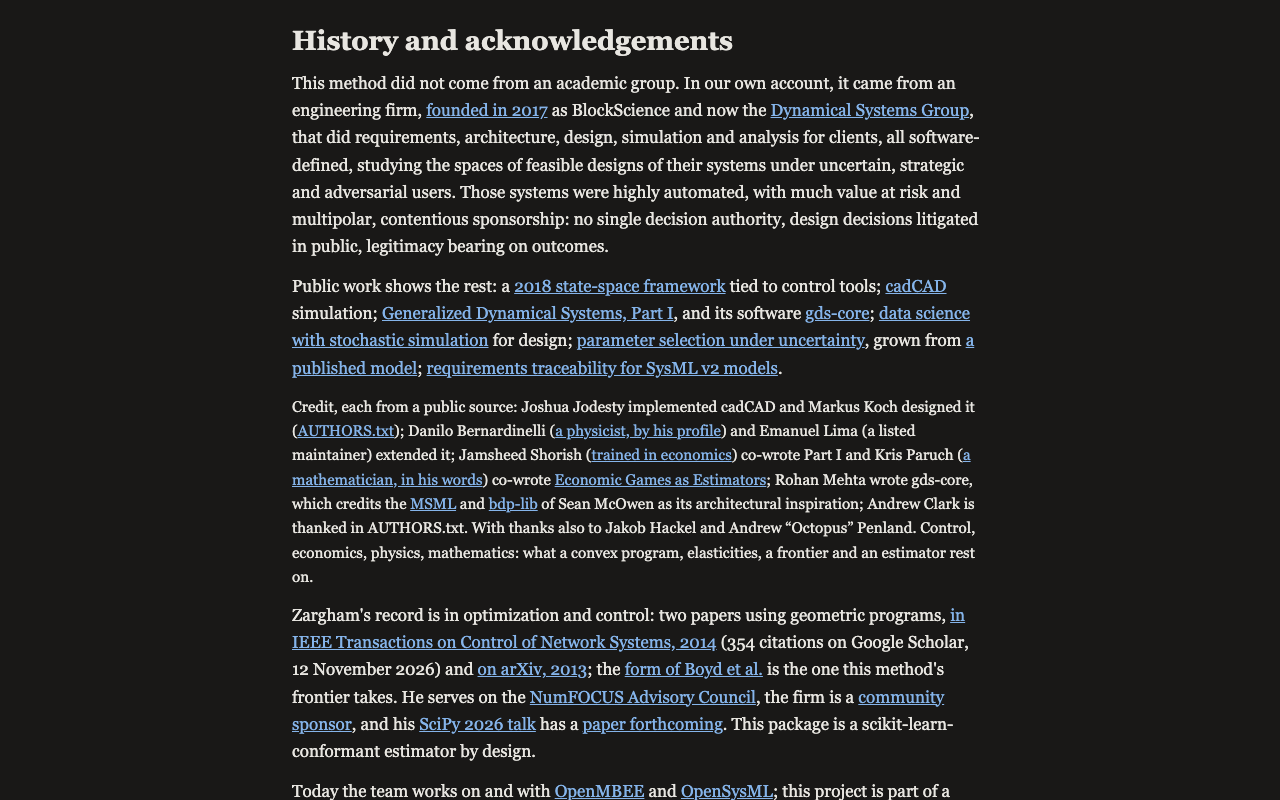
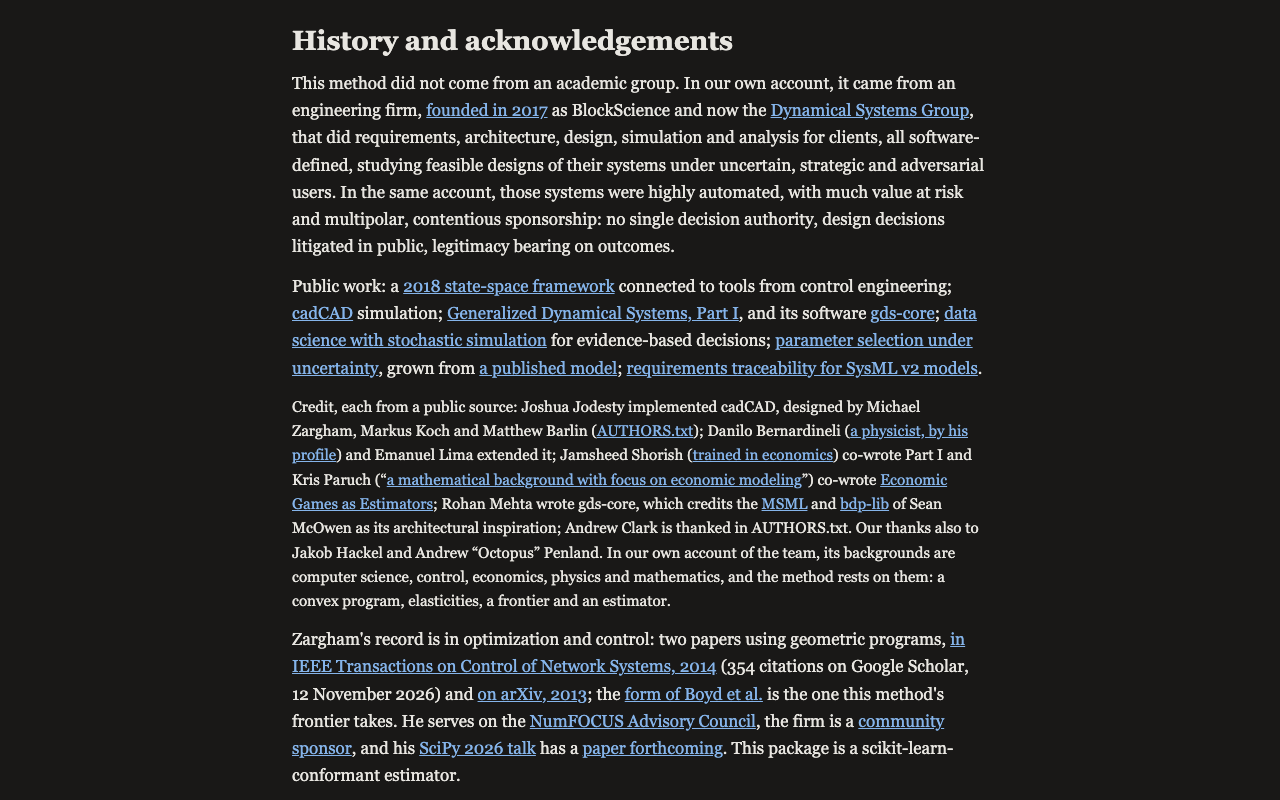
WP37 history page: the supervisor's decisions on the W3 flags; open items for the supervisor; claims rows and screenshots updated

Changed region(s): [[0.2188, 0.5, 0.7812, 1.0], [0.2188, 0.1875, 0.7812, 0.4688]]

diff --git a/site/history.html b/site/history.html
@@ -82,35 +82,37 @@
     engineering firm, <a href="https://michael.zargham.org">founded in 2017</a> as BlockScience and
     now the <a href="https://www.dynamicalsystemsgroup.com">Dynamical Systems Group</a>, that did
     requirements, architecture, design, simulation and analysis for clients, all software-defined,
-    studying the spaces of feasible designs of their systems under uncertain, strategic and
-    adversarial users. Those systems were highly automated, with much value at risk and multipolar,
-    contentious sponsorship: no single decision authority, design decisions litigated in public,
-    legitimacy bearing on outcomes.
+    studying feasible designs of their systems under uncertain, strategic and
+    adversarial users. In the same account, those systems were highly automated, with much value at
+    risk and multipolar, contentious sponsorship: no single decision authority, design decisions
+    litigated in public, legitimacy bearing on outcomes.
   </p>
   <p>
-    Public work shows the rest: a <a href="https://arxiv.org/abs/1807.00955">2018 state-space
-    framework</a> tied to control tools; <a href="https://github.com/cadCAD-org/cadCAD">cadCAD</a>
+    Public work: a <a href="https://arxiv.org/abs/1807.00955">2018 state-space
+    framework</a> connected to tools from control engineering; <a href="https://github.com/cadCAD-org/cadCAD">cadCAD</a>
     simulation; <a href="https://research.wu.ac.at/de/publications/generalized-dynamical-systems-part-i-foundations/">Generalized
     Dynamical Systems, Part I</a>, and its software <a href="https://github.com/DynamicalSystemsGroup/gds-core">gds-core</a>;
-    <a href="https://arxiv.org/abs/2001.03020">data science with stochastic simulation</a> for design;
+    <a href="https://arxiv.org/abs/2001.03020">data science with stochastic simulation</a> for
+    evidence-based decisions;
     <a href="https://hackmd.io/@danlessa/HklBYikEY">parameter selection under uncertainty</a>, grown from
     <a href="https://github.com/BlockScience/subspace">a published model</a>;
     <a href="https://github.com/DynamicalSystemsGroup/flexo-rtm">requirements traceability for SysML v2 models</a>.
   </p>
   <p class="credit">
-    Credit, each from a public source: Joshua Jodesty implemented cadCAD and Markus Koch
-    designed it (<a href="https://github.com/cadCAD-org/cadCAD/blob/master/AUTHORS.txt">AUTHORS.txt</a>);
-    Danilo Bernardinelli (<a href="https://github.com/danlessa">a physicist, by his profile</a>)
-    and Emanuel Lima (a listed maintainer) extended it; Jamsheed Shorish
+    Credit, each from a public source: Joshua Jodesty implemented cadCAD, designed by Michael Zargham,
+    Markus Koch and Matthew Barlin (<a href="https://github.com/cadCAD-org/cadCAD/blob/master/AUTHORS.txt">AUTHORS.txt</a>);
+    Danilo Bernardineli (<a href="https://github.com/danlessa">a physicist, by his profile</a>)
+    and Emanuel Lima extended it; Jamsheed Shorish
     (<a href="https://genealogy.repec.org/pages/psh169.html">trained in economics</a>) co-wrote Part I and Kris Paruch
-    (<a href="https://web.archive.org/web/2022/https://medium.com/crypto3conomics/token-engineering-from-an-economic-perspective-b6c464f20241">a
-    mathematician, in his words</a>) co-wrote <a href="https://doi.org/10.1007/978-3-030-53356-4_8">Economic
+    (&ldquo;<a href="https://web.archive.org/web/2022/https://medium.com/crypto3conomics/token-engineering-from-an-economic-perspective-b6c464f20241">a
+    mathematical background with focus on economic modeling</a>&rdquo;) co-wrote <a href="https://doi.org/10.1007/978-3-030-53356-4_8">Economic
     Games as Estimators</a>; Rohan Mehta wrote gds-core, which credits the
     <a href="https://github.com/DynamicalSystemsGroup/MSML">MSML</a> and
     <a href="https://github.com/DynamicalSystemsGroup/bdp-lib">bdp-lib</a> of Sean McOwen as its architectural
-    inspiration; Andrew Clark is thanked in AUTHORS.txt. With thanks also to Jakob Hackel and
-    Andrew &ldquo;Octopus&rdquo; Penland. Control, economics, physics, mathematics: what a convex
-    program, elasticities, a frontier and an estimator rest on.
+    inspiration; Andrew Clark is thanked in AUTHORS.txt. Our thanks also to Jakob Hackel and
+    Andrew &ldquo;Octopus&rdquo; Penland. In our own account of the team, its backgrounds are computer
+    science, control, economics, physics and mathematics, and the method rests on them: a convex
+    program, elasticities, a frontier and an estimator.
   </p>
   <p>
     Zargham's record is in optimization and control: two papers using geometric programs,
@@ -121,12 +123,13 @@
     frontier takes. He serves on the <a href="https://numfocus.org/community/people">NumFOCUS Advisory
     Council</a>, the firm is a <a href="https://numfocus.org/sponsors">community sponsor</a>, and his
     <a href="https://pretalx.com/scipy-2026/talk/TBDWJZ/">SciPy 2026 talk</a> has a
-    <a href="https://michael.zargham.org/publications.html">paper forthcoming</a>. This package is a scikit-learn-conformant estimator by design.
+    <a href="https://michael.zargham.org/publications.html">paper forthcoming</a>. This package is a scikit-learn-conformant estimator.
   </p>
   <p>
-    Today the team works on and with <a href="https://www.dynamicalsystemsgroup.com/partners">OpenMBEE</a>
-    and <a href="https://github.com/Open-MBEE/OpenSysML">OpenSysML</a>; this project is part of a synthesis
-    effort to make what we learned accessible.
+    Today the team works on and with <a href="https://www.dynamicalsystemsgroup.com/partners">OpenMBEE</a>,
+    and Zargham is a <a href="https://michael.zargham.org/research">maintainer working across</a>
+    <a href="https://github.com/Open-MBEE/OpenSysML">OpenSysML</a> and Flexo MMS; in our own account,
+    this project is part of a synthesis effort to make what we learned accessible.
   </p>
   <p class="close">With computers, fast but with confidence.</p>
 

diff --git a/tests/test_site.py b/tests/test_site.py
@@ -565,14 +565,16 @@ def test_history_page_uses_no_cryptocurrency_or_web3_vocabulary():
         r"\bnft\b",
     ):
         assert not re.search(banned, text), banned
-    assert "computer scien" not in text, "computer science is not backed for any named person"
+    # computer science is the supervisor's word for the team's backgrounds (WP37 decisions),
+    # offered on the page as the team's own account of the team
+    assert "In our own account of the team" in _history_text()
 
 
 def test_history_page_credits_the_eleven_named_people():
     text = _history_text()
     for name in (
         "Markus Koch",
-        "Danilo Bernardinelli",
+        "Danilo Bernardineli",
         "Rohan Mehta",
         "Joshua Jodesty",
         "Jamsheed Shorish",
@@ -584,6 +586,17 @@ def test_history_page_credits_the_eleven_named_people():
         "Sean McOwen",
     ):
         assert name in text, name
+
+
+def test_history_page_marks_the_team_account_and_credits_cadcad_as_authors_txt_does():
+    """WP37 W3 decisions: the team's own account is marked each time; cadCAD's designers are
+    credited as AUTHORS.txt states them; Paruch is quoted in his own words."""
+    text = _history_text()
+    assert text.count("our own account") + text.count("the same account") >= 3
+    assert "designed by Michael Zargham, Markus Koch and Matthew Barlin" in text
+    assert "a mathematical background with focus on economic modeling" in text
+    assert "Our thanks also to Jakob Hackel" in text
+    assert text.count("Barlin") == 1
 
 
 def test_paper_theme_is_pinned_to_a_commit():

diff --git a/work-packages/WP37-rounds/open-items.md b/work-packages/WP37-rounds/open-items.md
@@ -1,0 +1,36 @@
+# WP37 draft: open items for the supervisor
+
+The draft is site/history.html. Each item below is something the page does not settle by itself.
+
+## 1. Names
+
+- **Spelling.** The page follows the public sources: "Danilo Bernardineli" (cadCAD AUTHORS.txt, "Danilo L. Bernardineli"; GitHub name "Danilo Lessa Bernardineli"). Your list has "Bernardinelli". Which does he use?
+- **Matthew V. Barlin.** The page names him only where it restates cadCAD's AUTHORS.txt (implemented by Joshua E. Jodesty, designed by Zargham, Markus B. Koch and Barlin, 2018). He is also a co-author of the 2020 Insolar-network paper and of arXiv:2001.03020. Whether he is thanked beyond that statement is your call.
+- **Other "possibly also" names** (w2-people.md section 5; none on the page): Tyler D. Mace, Zixuan Zhang, Charles Rice, Benjamin Scholz, Jonathan Gabler, Nick Hirannet, Peter Hacker (not Jakob Hackel), Marek Laskowski, Hjalmar Turesson, Danil Kabanov, Eden Dhaliwal, Victor M. Preciado, Alexander Mihailov, Matt Stephenson, Chris Catoya, Jeff Emmett, Ilan Ben-Meir, Jessica Zartler, and the AUTHORS.txt thanks list (Griff Green, `eenti`, Jonny Dubowsky, Sem Brestels, Andrea Maria Piana, `fjribi`, Harry Goodnight, Charlie Hoppes, Nikhil Jamdade, Chris Frazier).
+- **Jakob Hackel and Andrew "Octopus" Penland.** No public source ties either to the work. The page thanks them as the team's own thanks ("Our thanks also to"), with no role. Confirm, or supply a public source for each.
+
+## 2. Roles and the team's own account
+
+- **OpenSysML.** The page now links your research page (michael.zargham.org/research: "OpenMBEE: maintainer since 2026, working across the OpenSysML and Flexo MMS tool ecosystem") for your role, and the partners page for the firm's work with OpenMBEE. The firm's role in OpenSysML itself is not on any public page; the page does not claim it.
+- **Marked as the team's account (no public source):** the firm's activities and its systems' attributes; the team's backgrounds (computer science, control, economics, physics, mathematics) and their tie to the method; the synthesis effort. Say if any should be dropped or restated.
+
+## 3. Links the page does not use, with their known URLs (all HTTP 403 or unresolvable to the workers; w1-history.md section 6)
+
+| URL | What it would support |
+|---|---|
+| https://medium.com/block-science/introducing-complex-adaptive-dynamics-computer-aided-design-cadcad-38b63b541eb8 | the firm's own account of cadCAD's origin (2018 start, August 2019 open-source announcement, per a search snippet) |
+| https://medium.com/block-science/how-to-perform-parameter-selection-under-uncertainty-976931ba7e5d | the PSuU article: author and date |
+| https://medium.com/block-science/cadcad-filling-a-critical-gap-in-open-source-data-science-fcd0d3faa8ed | the scientific-Python claim for cadCAD |
+| https://medium.com/block-science/complex-systems-modeling-of-community-inclusion-currencies-4e2161787934 | a collaboration statement (not fetched) |
+| https://wiki.p2pfoundation.net/Complex_Adaptive_Dynamics_Computer-Aided_Design | a third-party summary of the cadCAD conference paper |
+| https://blog.dynamicalsystemsgroup.com/generalized-dynamical-systems-part-i-foundations-2/ | the 2021 GDS blog post cited by gds-core (host does not resolve) |
+| https://papers.ssrn.com/sol3/papers.cfm?abstract_id=4865894 and ...4569037 | author lines for two papers |
+| https://science.ecosyste.ms/projects/64753 | papers citing cadCAD |
+
+## 4. Figures and claims narrowed
+
+- **354 citations.** Google Scholar profile (user=bbdc3vkAAAAJ) re-read by W3 on 2026-11-12 shows 354 for the 2014 TCNS paper; Crossref shows 227 for the same DOI. The page names Google Scholar and the date.
+- **SciPy proceedings.** The page says only that the talk has a paper forthcoming (your publications page lists it as forthcoming in the Proceedings of the 25th Python in Science Conference); it says nothing about acceptance.
+- **Closing phrase.** "With computers, fast but with confidence." is your phrase from the decision record; keep or cut.
+- **First-paragraph clause cut.** The clause tying legitimacy to this paper's first sentence (a justification an accountable decision maker can follow) is not on the page.
+- **Under the one-screen target.** To stay within 400 words, cuts: "by design" (the package sentence), "the spaces of" (the firm's account, now "studying feasible designs"), "(a listed maintainer)" after Emanuel Lima (AUTHORS.txt still lists him), "includes" after "Public work" (now "Public work: a ...").
